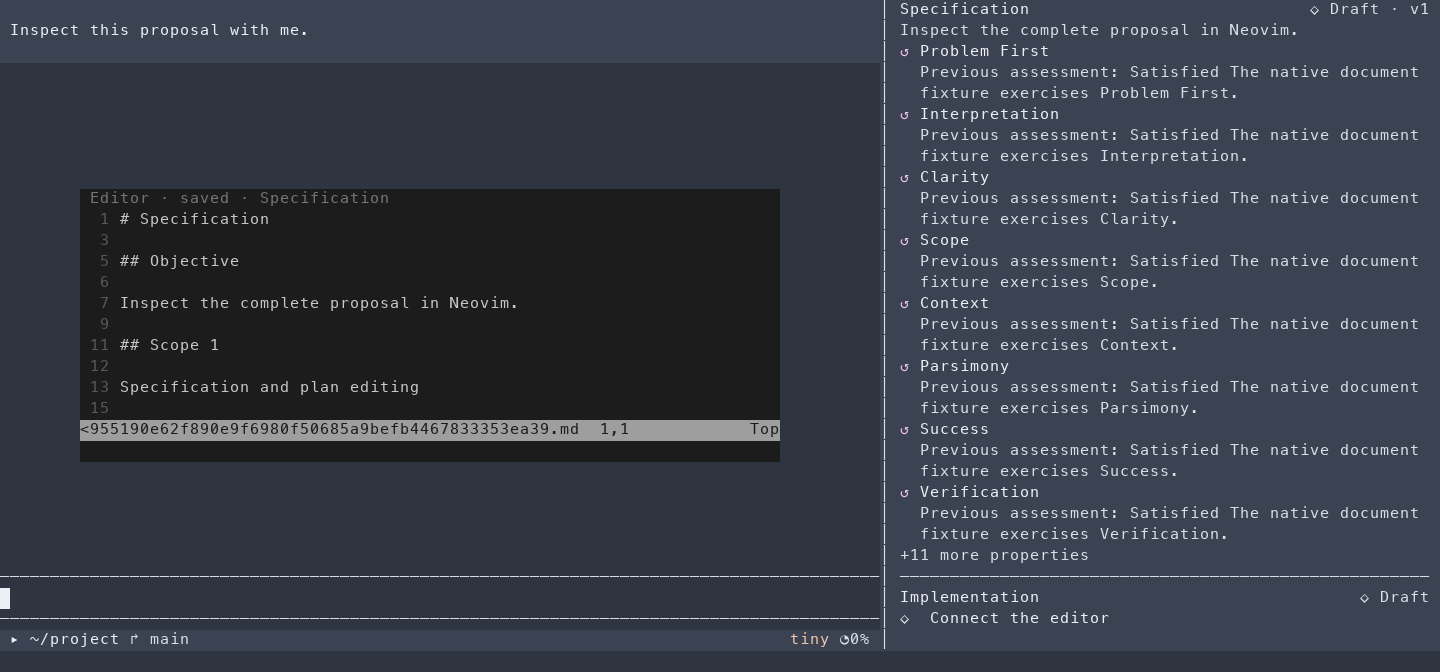
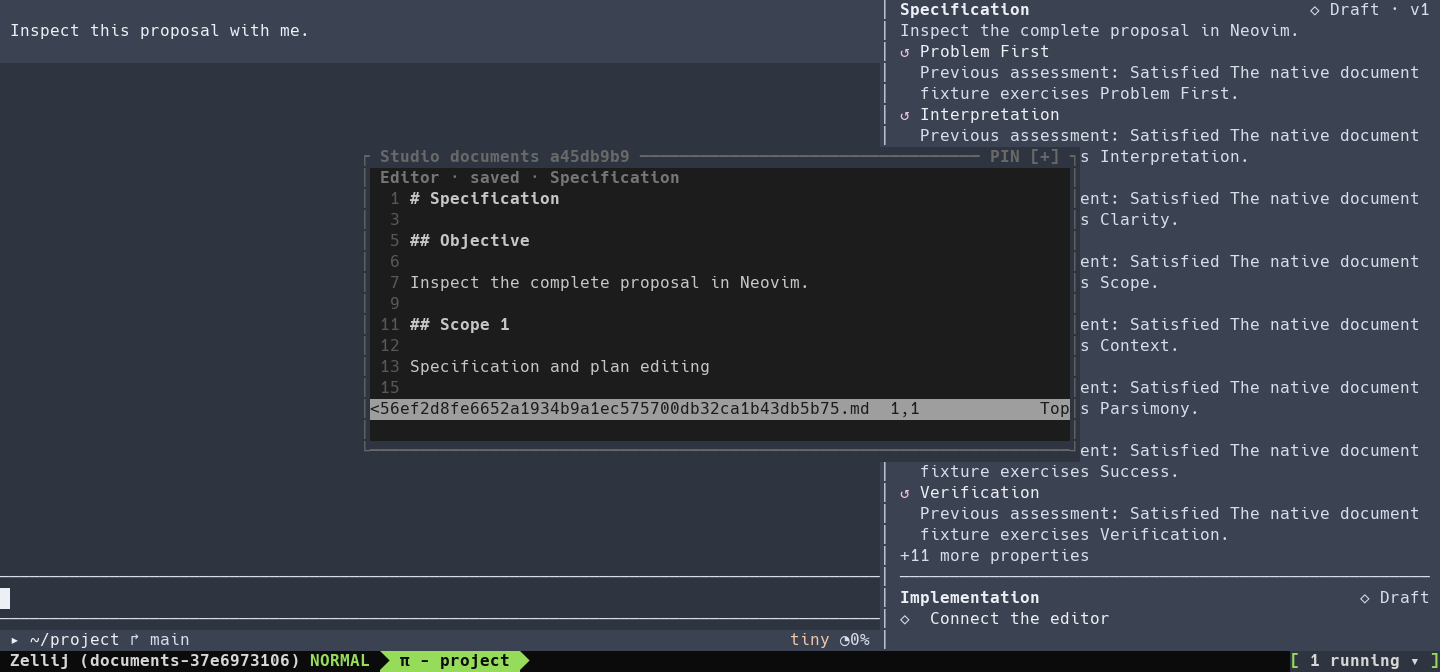
fix(documents): center the floating Neovim pane

diff --git a/zellij.ts b/zellij.ts
@@ -331,7 +331,10 @@ export class Zellij {
               ...value,
               coordinates: {
                 pinned: true,
-                x: { coordinateType: { case: "percent", value: 5 } },
+                x: { coordinateType: { case: "percent", value: 25 } },
+                y: { coordinateType: { case: "percent", value: 25 } },
+                width: { coordinateType: { case: "percent", value: 50 } },
+                height: { coordinateType: { case: "percent", value: 50 } },
               },
             },
           }

diff --git a/acceptance/documents.py b/acceptance/documents.py
@@ -296,6 +296,9 @@ vim.fn.writefile({vim.json.encode({socket=vim.env.HOME .. '/nvim.sock',pid=vim.f
                     lead_after = next(pane for pane in panes if pane["id"] == studio)
                     companion = next(pane for pane in panes if pane["id"] != studio)
                     assert companion["is_floating"], "The document pane is tiled"
+                    for origin, extent in (("pane_x", "pane_columns"), ("pane_y", "pane_rows")):
+                        midpoint_delta = 2 * (companion[origin] - lead_after[origin]) + companion[extent] - lead_after[extent]
+                        assert abs(midpoint_delta) <= 2, f"Document pane is off center on {origin}: {midpoint_delta / 2} cells"
                     assert lead_after["is_focused"], "Opening documents stole Studio focus"
                     assert all(lead_after[key] == lead_before[key] for key in geometry), "Opening documents resized Studio"
                     return companion["id"]

diff --git a/acceptance/zellij_terminal.py b/acceptance/zellij_terminal.py
@@ -25,6 +25,10 @@ class Pane(TypedDict):
     tab_id: int
     is_focused: bool
     is_floating: bool
+    pane_x: int
+    pane_y: int
+    pane_columns: int
+    pane_rows: int
     pane_content_x: int
     pane_content_y: int
     pane_content_columns: int

diff --git a/docs/neovim-documents.md b/docs/neovim-documents.md
@@ -15,11 +15,11 @@ enabled = true
 executable = "nvim"
 ```
 
-The first available draft opens a pinned floating pane without taking keyboard focus or resizing Studio. Studio reuses that pane for subsequent updates. `/documents` opens it explicitly or reopens it after you close it. Your ordinary Neovim initialization and plugins load before Studio attaches its document adapter. Other Studio features remain usable with this integration disabled or unavailable.
+The first available draft opens a centered floating pane without taking keyboard focus or resizing Studio. Studio reuses that pane for subsequent updates. `/documents` opens it explicitly or reopens it after you close it. Your ordinary Neovim initialization and plugins load before Studio attaches its document adapter. Other Studio features remain usable with this integration disabled or unavailable.
 
 The specification and plan are separate Markdown buffers. `:EditorDocuments` selects one. Each belongs to its original document and conversation; selecting another discovery in Studio does not reassign an existing buffer or comment. Incoming documents and updates preserve your current editor window.
 
-![Floating Neovim specification over the Studio lead with the sidebar and input visible](assets/documents-floating.png)
+![Centered floating Neovim specification over the Studio lead and sidebar](assets/documents-floating.png)
 
 ## Edit and save
 
@@ -51,7 +51,7 @@ Quitting Studio leaves the Neovim buffers available. If Studio is the last tiled
 
 ![A narrow companion pane retains local edits and displays conflict status](assets/documents-narrow.png)
 
-These images reconstruct the actual per-pane ANSI output from the isolated native acceptance run. They use Studio's default theme and a minimal Neovim configuration.
+These images reconstruct terminal output from the isolated native acceptance run. They use Studio's default theme and a minimal Neovim configuration.
 
 ## Development acceptance
 
